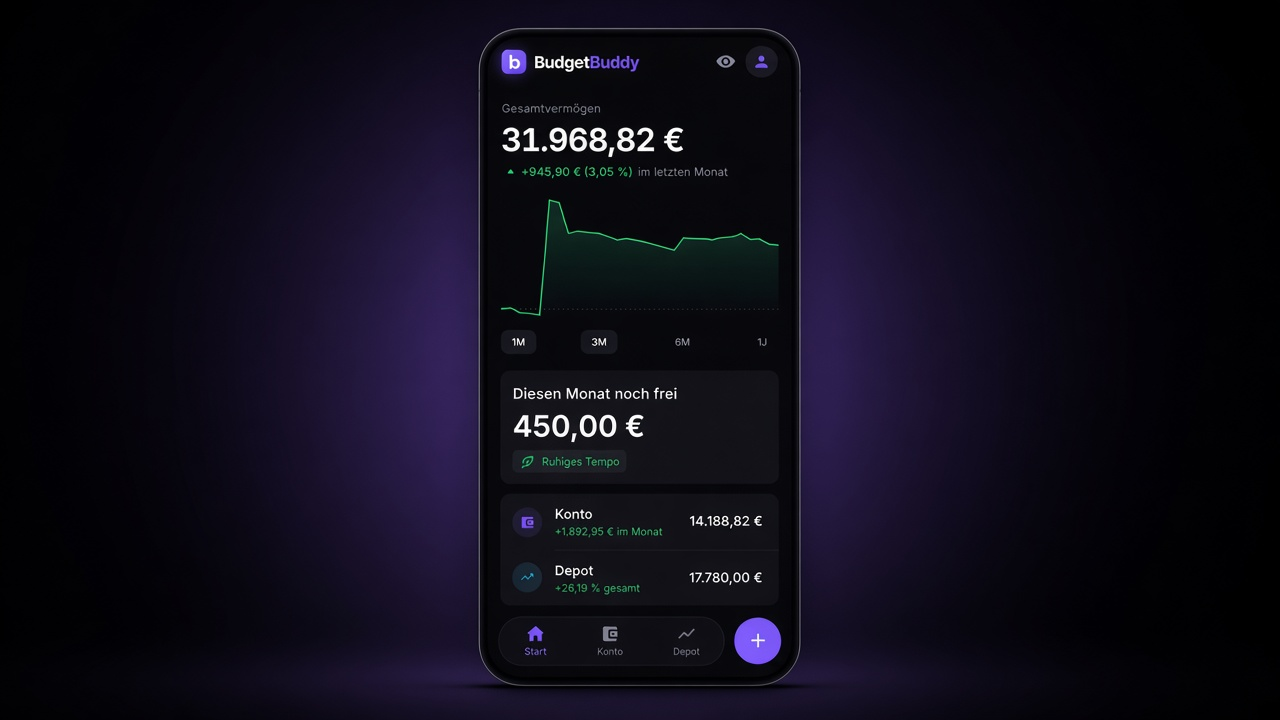
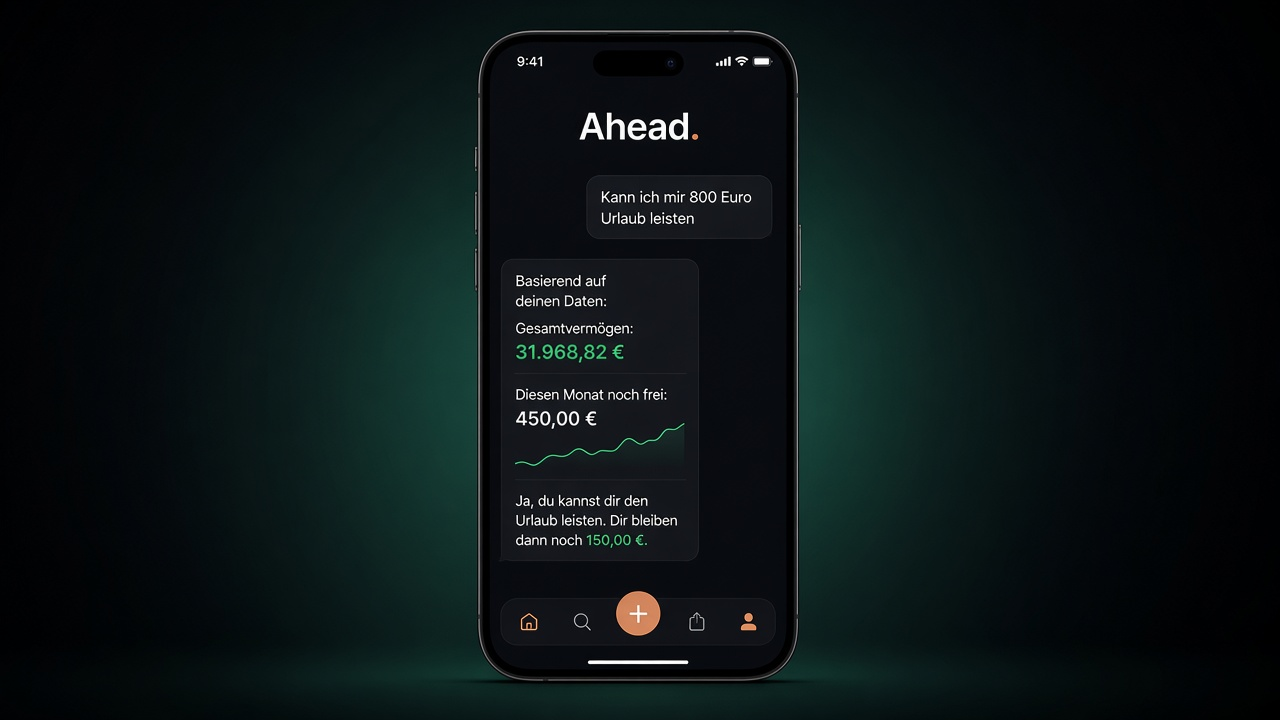
Reposition public README for Ahead and the coach-first business case.
Rename the portfolio story from BudgetBuddy to Ahead, lead with Buddy, and refresh dark-mode screenshots for CV use.

diff --git a/README.md b/README.md
@@ -1,52 +1,54 @@
-# BudgetBuddy
+# Ahead
 
-**Personal finance app built with Flutter**: accounts, budgets, subscriptions, brokerage portfolio, and cash-flow forecasting in one product.
+**Your buddy for money and the future.**
 
-Local-first data on device, optional encrypted cloud backup, and real bank connectivity (PSD2, read-only). Soft-launched end-to-end: client, Dart backend, vault, and integrations.
+Ahead is a Flutter finance app for young adults in Germany. The product is **Buddy** — an AI money coach in chat that answers with *your* numbers. Banking, portfolio, and retirement context are data sources for Buddy, not the centre of the product.
+
+> ChatGPT does not know your numbers. Buddy does.
+
+Formerly *BudgetBuddy* — same codebase, new brand and positioning.
 
 <p align="center">
-  <img src="docs/images/bb_readme_hero.jpg" alt="BudgetBuddy: net worth overview and monthly forecast" width="720">
+  <img src="docs/images/bb_readme_hero.jpg" alt="Ahead — Buddy answers with your real numbers" width="720">
 </p>
 
 ## Screenshots
 
 <p align="center">
-  <img src="docs/images/bb_readme_start.jpg" alt="Home: net worth and remaining budget" width="140">
+  <img src="docs/images/bb_readme_buddy.jpg" alt="Buddy AI coach chat" width="140">
+  <img src="docs/images/bb_readme_start.jpg" alt="Overview: net worth and remaining budget" width="140">
   <img src="docs/images/bb_readme_forecast.jpg" alt="What-if monthly simulator" width="140">
-  <img src="docs/images/bb_readme_buddy.jpg" alt="Buddy AI finance coach" width="140">
   <img src="docs/images/bb_readme_konto.jpg" alt="Account and transactions" width="140">
   <img src="docs/images/bb_readme_contracts.jpg" alt="Subscriptions and contracts" width="140">
   <img src="docs/images/bb_readme_depot.jpg" alt="Brokerage portfolio" width="140">
 </p>
 
-## Features
+## Positioning
 
-**Monthly forecast & what-if simulator**
-- Remaining budget for the month from income, fixed costs, savings goals, and spending pace
-- Interactive scenarios (skip subscriptions, one-off purchases, adjust savings) with a live difference; nothing is saved
+Most German money apps show **what you have**. Ahead focuses on **what to do next in your life stage** — first job, job change, moving in together, and similar moments — with a coach that can explain, calculate, and suggest next steps (never regulated investment advice).
 
-**Buddy (AI finance coach)**
-- Answers grounded in the user’s real numbers (spending, goals, contracts)
+## Product
+
+**Buddy (AI coach)**
+- Chat-first home screen; answers grounded in the user’s real spending, budgets, contracts, goals, and portfolio
+- Tool-using agent on device (search transactions, run month scenarios, calculate savings plans)
 - Receipt scan and natural-language quick entry
-- On-device fallback when the model is unavailable
-- Privacy-first: consent-gated; summary only (no IBAN); API keys stay on the server
+- Consent-gated cloud AI; on-device fallback when unavailable; no IBANs in summaries
 
-**Banking & categorization**
-- PSD2 bank link (Enable Banking, read-only) plus a demo bank for local trials
-- Auto-categorization, learned merchant rules, SEPA noise scrubbed from titles
-- Ledger calibrated to the bank opening balance
+**Cash flow & foresight**
+- Remaining budget for the month and a what-if simulator (skip subscriptions, one-offs, adjust savings — nothing persisted)
+- Subscriptions detected from recurring payments, including price-rise signals
+- Savings goals and a rough retirement gap as orientation (not advice)
 
-**Accounts, budgets, subscriptions**
-- Transactions, budget traffic lights, monthly analysis
-- Recurring payments detected as subscriptions, including price-rise signals
-
-**Portfolio & net worth**
-- Holdings with live quotes, allocation, Trade Republic import
-- Combined net worth (cash + brokerage) with an interactive chart
+**Accounts & portfolio (supporting)**
+- PSD2 bank link (Enable Banking, read-only) and demo bank
+- Auto-categorization and learned merchant rules
+- Holdings with quotes / imports — useful context for Buddy, not the hero feature
 
 **Security & sync**
+- Local-first Hive storage; optional encrypted cloud vault (AES-256-GCM, password-derived key)
 - Auth, biometric lock, hide balances
-- Client-side vault: AES-256-GCM; key derived from the password (server stores ciphertext only)
+- Freemium: limited free Buddy questions; Ahead Plus (€4.99 / month or €39.99 / year, 7-day trial)
 
 ## Tech stack
 
@@ -54,9 +56,9 @@ Local-first data on device, optional encrypted cloud backup, and real bank conne
 |---|---|
 | App | Flutter / Dart |
 | Local storage | Hive |
-| Security | `local_auth`, `flutter_secure_storage`, bcrypt / session hashes on the server |
+| Security | `local_auth`, `flutter_secure_storage`, bcrypt / session hashes |
 | Backend | Dart HTTP server (bank, portfolio, vault, AI proxy) |
-| Integrations | Enable Banking (PSD2), Finnhub (quotes), optional Parqet, server-side LLM API |
+| Integrations | Enable Banking (PSD2), Finnhub, optional Parqet, server-side LLM |
 | Tests | `flutter_test` (unit & widget) |
 
 ## Repository layout
@@ -65,8 +67,9 @@ Local-first data on device, optional encrypted cloud backup, and real bank conne
 lib/          # UI, services, models
 backend/      # API: bank, portfolio, vault, Buddy
 test/         # Automated tests
-landing/      # Marketing landing page
+landing/      # Marketing site
 docs/         # Screenshots and launch notes
+brand/        # Brand assets
 ```
 
 ## Getting started
@@ -82,21 +85,21 @@ flutter run
 flutter test
 ```
 
-Web build:
+Web:
 
 ```bash
 tool/build_web.sh
 python3 tool/serve_web.py   # http://127.0.0.1:8765
 ```
 
-Backend setup: see [backend/README.md](backend/README.md).
+Backend: see [backend/README.md](backend/README.md).
 
 > UI language: German.
 
-Inter font is included under the SIL Open Font License (`assets/fonts/Inter-OFL.txt`).
+Inter font: SIL Open Font License (`assets/fonts/Inter-OFL.txt`).
 
 ## Author
 
-**Luis Frenkler** designed and built BudgetBuddy from architecture through soft launch (bank sync, encrypted vault, forecast, Buddy, portfolio).
+**Luis Frenkler** — built Ahead end to end: Flutter client, Dart backend, vault, bank sync, Buddy agent, portfolio, and soft-launch path.
 
 [github.com/LuisFrenkler/budget-buddy](https://github.com/LuisFrenkler/budget-buddy)
